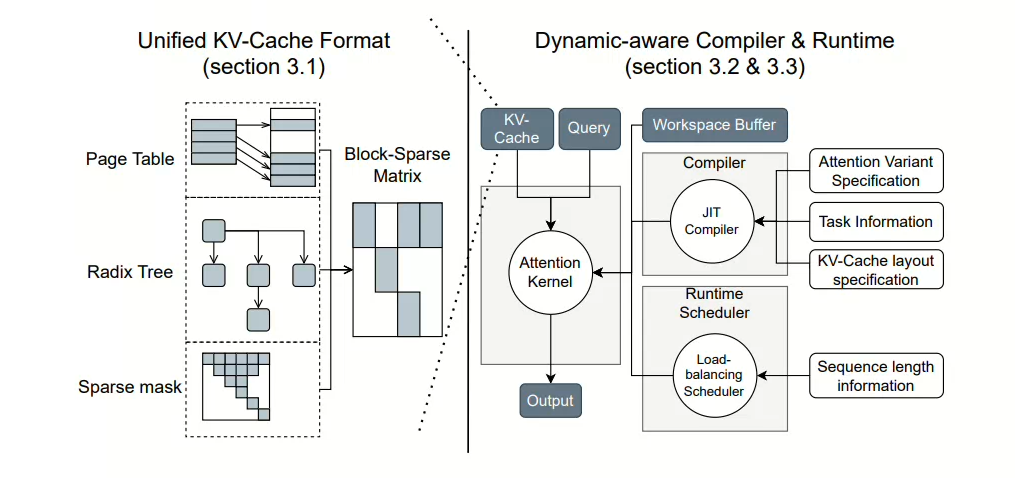
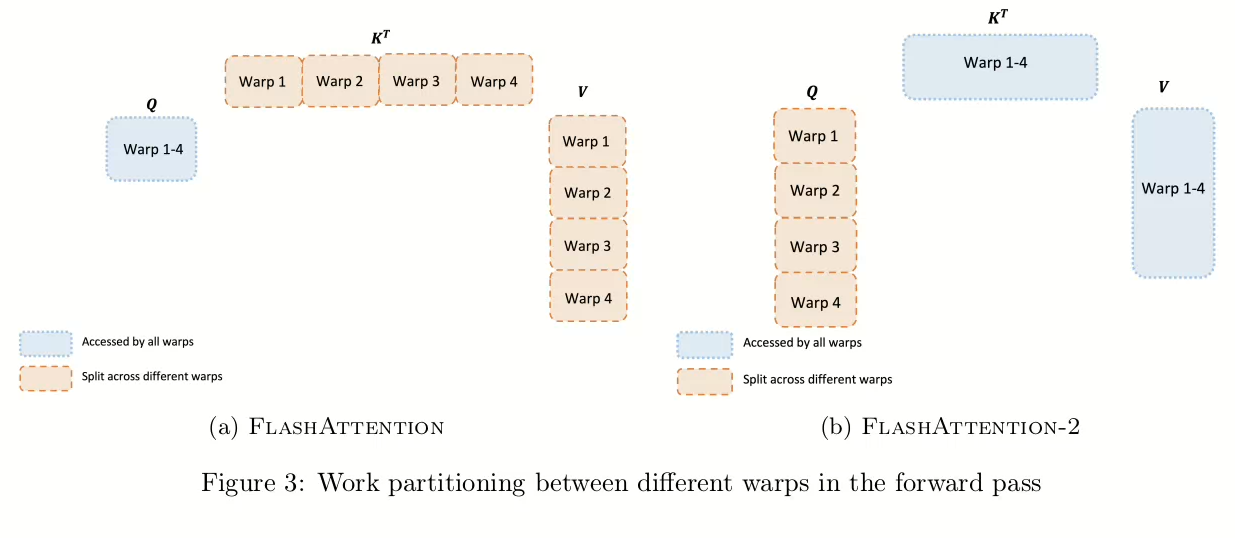
commit

Changed region(s): [[0.0, 0.0, 1.0, 0.9372]]

diff --git a/src/content/posts/推理优化/flashAttention_v3/index.md b/src/content/posts/推理优化/flashAttention_v3/index.md
@@ -1,0 +1,54 @@
+---
+title: flashAttention_v3
+published: 2025-11-10
+description: 总结了flashAttention_v3的技术要点与拓展了相关的概念
+tags: [AI Infra, C++]
+category: 推理优化
+draft: true
+image: ./cover.png
+---
+
+## 1.背景-硬件新特性
+
+### 1.1异步Tensor Cores
+
+Tensor Cores 是GPU专门用于加速矩阵乘法（GEMM）的硬件单元，Hopper架构将其升级为**异步执行模式**：
+
+- 前代的Tensor Cores执行矩阵乘法的时候，会"阻塞"后续指令，需要等待当前运算完成才能继续
+- Hopper 的 Tensor Cores 支持 **WGMMA（Warpgroup Matrix Multiply-Accumulate）指令**，运算发起后无需等待结果返回，GPU可以同时调度其他任务。
+
+### 1.2张量内存加速器
+
+- 前代GPU需移开线程手动加载内存，过程线程会因为等待数据而闲置。
+- 但是TMA可独立计算线程，异步完成““全局内存->共享内存”的数据块加载 / 存储，并且支持灵活的分块布局。
+
+### 1.3低精度FP8硬件加速
+
+
+
+## 2.背景-lashAttention2的表现
+
+- FlashAttention-2 在新一代的GPU上利用率仍比较低
+- 未采取Hopper架构的专属指令
+
+### 2.1动机：在flashAttention_2 上明确异步执行和低精度特性
+
+### 2.2创新改进：
+
+1. **Producer-Consumer（生产者 - 消费者）**
+   - 生产者负责将数据从HBM搬运到SMEM
+   - 消费者负责进行矩阵运算
+2. 在异步分块矩阵乘法下隐藏Softmax运算
+   - 将softmax中吞吐量相对较低非 GEMM的操作与用于GEMM异步的 WGMMA指令进行并行执行，同时进行调度，规避Softmax 与 GEMM之间特定顺序的依赖关系
+3. 硬件加速的低精度矩阵乘法
+
+
+
+
+
+
+
+- 
+
+
+
